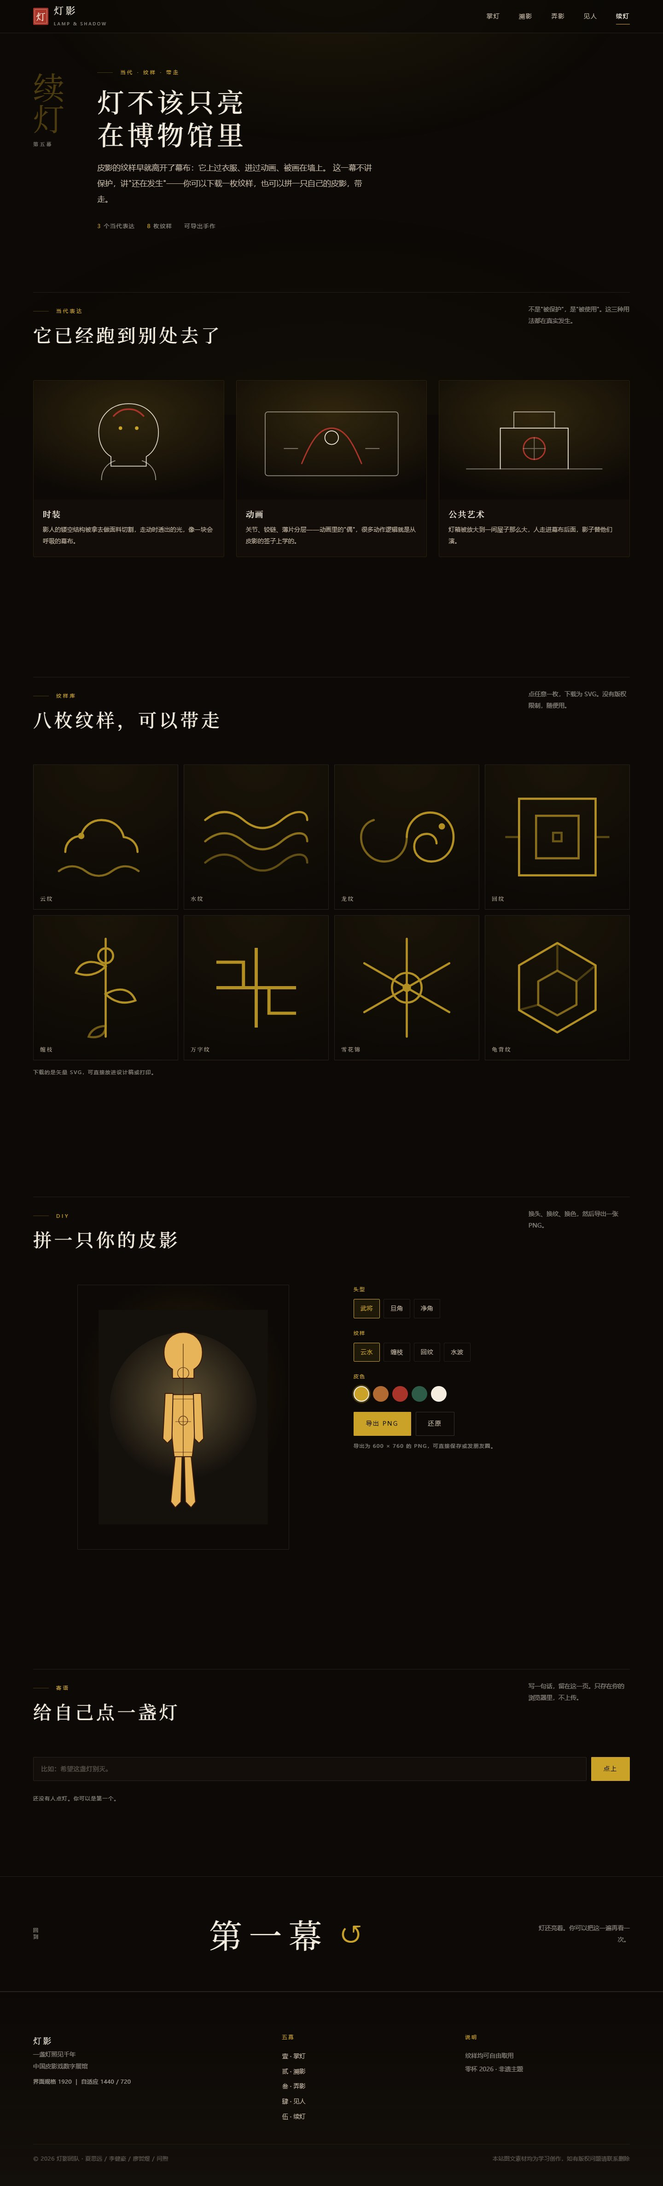
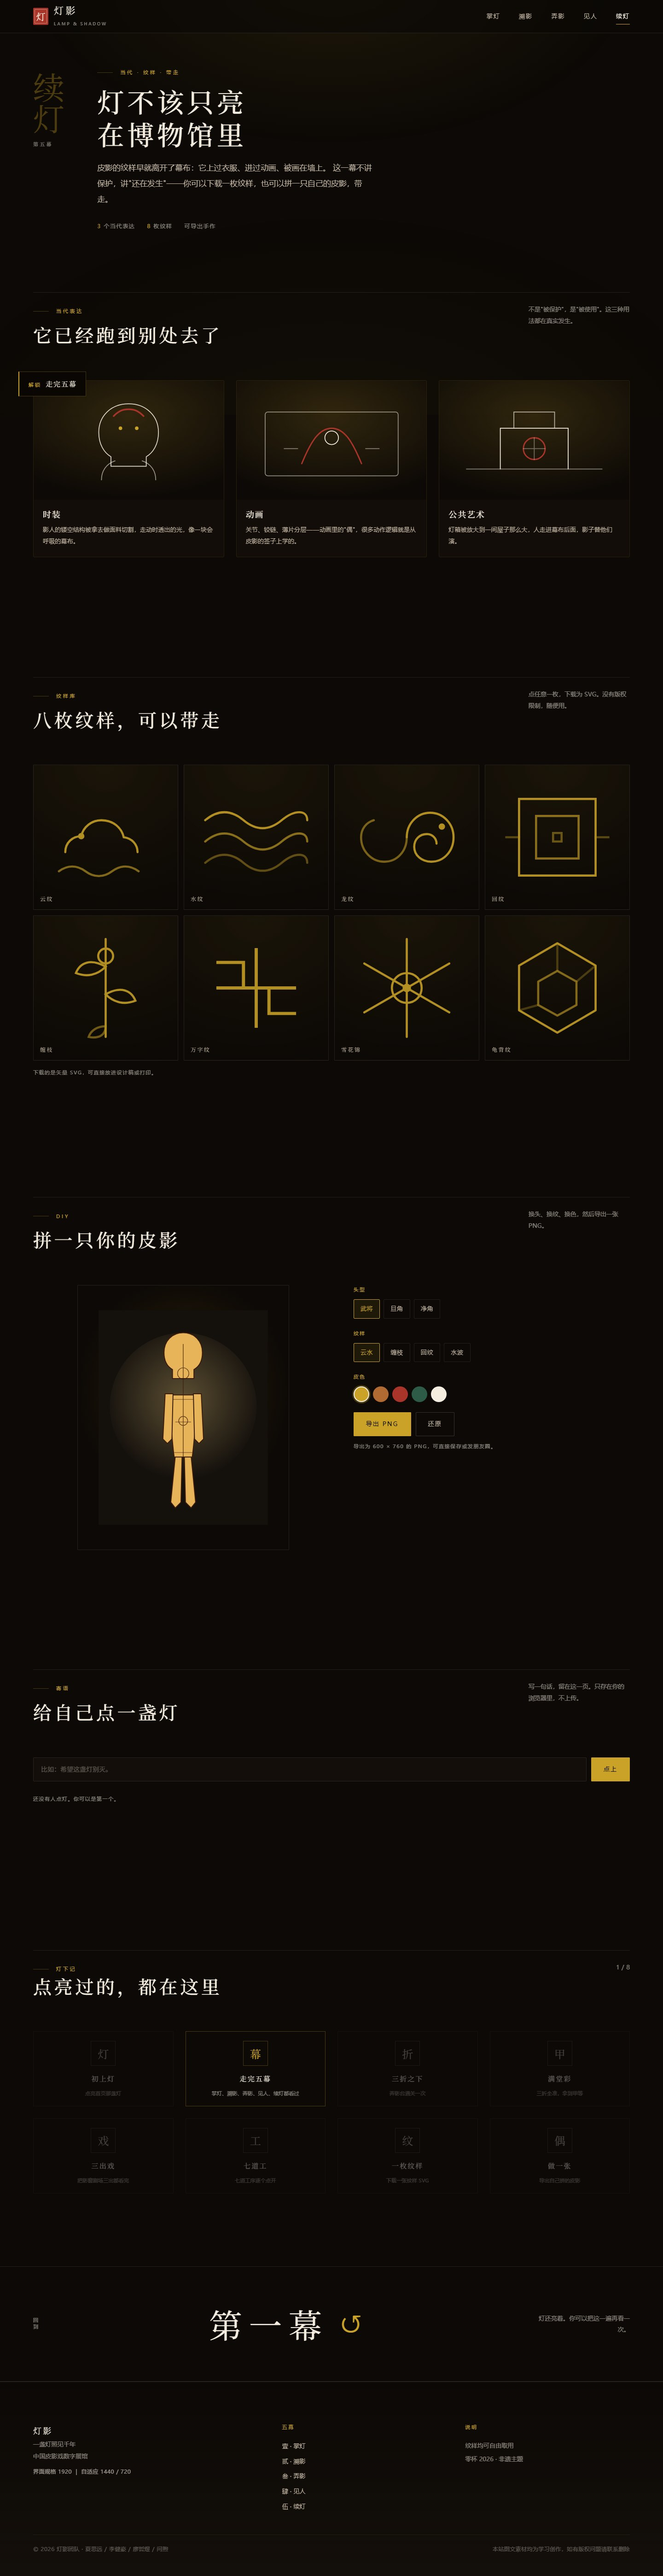
feat: 灯下记——八枚徽章与跨页累计
- achievements.js：八个成就定义、localStorage 累计、解锁 toast、徽章墙渲染
- 挂载：点灯 / 通关与甲等（stage）/ 工序逐个点开（main）/ 纹样与 DIY 下载（diy）/ 剧目看完（theater）/ 五页走遍（自身）
- 续灯页新增「灯下记」区块，未解锁灰化并带说明
- 07 清单 FN-06 标记完成
- 回归：30 组审计 0 报错，键盘通关 passed，实测点灯即弹「解锁 初上灯」

diff --git a/web/assets/js/achievements.js b/web/assets/js/achievements.js
@@ -1,0 +1,129 @@
+/* 灯影 · achievements.js
+   八枚徽章：本地存储、跨页累计、解锁即时提示。
+   不依赖任何后端；localStorage 不可用时静默失效。 */
+(function () {
+  "use strict";
+
+  var ACHS = [
+    { id: "light", name: "初上灯", glyph: "灯", desc: "点亮首页那盏灯" },
+    { id: "tour", name: "走完五幕", glyph: "幕", desc: "掌灯、溯影、弄影、见人、续灯都看过" },
+    { id: "pass", name: "三折之下", glyph: "折", desc: "弄影台通关一次" },
+    { id: "perfect", name: "满堂彩", glyph: "甲", desc: "三折全准，拿到甲等" },
+    { id: "plays", name: "三出戏", glyph: "戏", desc: "把影窗剧场三出都看完" },
+    { id: "crafts", name: "七道工", glyph: "工", desc: "七道工序逐个点开" },
+    { id: "pattern", name: "一枚纹样", glyph: "纹", desc: "下载一张纹样 SVG" },
+    { id: "maker", name: "做一张", glyph: "偶", desc: "导出自己拼的皮影" }
+  ];
+
+  var KEY = "lampAch";
+  var state = {};
+  try { state = JSON.parse(localStorage.getItem(KEY) || "{}") || {}; } catch (e) { state = {}; }
+
+  function persist() {
+    try { localStorage.setItem(KEY, JSON.stringify(state)); } catch (e) { /* 忽略 */ }
+  }
+
+  function meta(id) {
+    for (var i = 0; i < ACHS.length; i++) if (ACHS[i].id === id) return ACHS[i];
+    return null;
+  }
+
+  function has(id) { return !!state[id]; }
+
+  /* ---------- 提示 ---------- */
+  function toast(id) {
+    var m = meta(id);
+    if (!m || !document.body) return;
+    var el = document.createElement("div");
+    el.className = "toast";
+    var b = document.createElement("b");
+    b.textContent = "解锁";
+    var s = document.createElement("span");
+    s.textContent = m.name;
+    el.appendChild(b);
+    el.appendChild(s);
+    document.body.appendChild(el);
+    requestAnimationFrame(function () { el.classList.add("is-in"); });
+    window.setTimeout(function () {
+      el.classList.remove("is-in");
+      window.setTimeout(function () { el.remove(); }, 420);
+    }, 2600);
+  }
+
+  function unlock(id) {
+    if (!meta(id)) return;
+    if (!has(id)) {
+      state[id] = Date.now();
+      persist();
+      toast(id);
+    }
+    paint();
+  }
+
+  /* 分组累计：点开第 index 个，满 total 个就解锁 */
+  function tick(group, index, total, id) {
+    state["@" + group + index] = 1;
+    persist();
+    for (var i = 0; i < total; i++) {
+      if (!state["@" + group + i]) { paint(); return; }
+    }
+    unlock(id);
+  }
+
+  /* ---------- 徽章墙 ---------- */
+  function paint() {
+    var wall = document.getElementById("achWall");
+    var count = document.getElementById("achCount");
+    var got = 0;
+    ACHS.forEach(function (a) { if (has(a.id)) got += 1; });
+    if (count) count.textContent = got + " / " + ACHS.length;
+    if (!wall) return;
+
+    wall.innerHTML = "";
+    ACHS.forEach(function (a, i) {
+      var on = has(a.id);
+      var box = document.createElement("div");
+      box.className = "ach" + (on ? " is-on" : "");
+      box.style.setProperty("--i", String(i));
+      if (!on) box.title = a.desc;
+
+      var seal = document.createElement("span");
+      seal.className = "ach__seal";
+      seal.textContent = a.glyph;
+
+      var name = document.createElement("span");
+      name.className = "ach__name";
+      name.textContent = a.name;
+
+      var desc = document.createElement("span");
+      desc.className = "ach__desc";
+      desc.textContent = a.desc;
+
+      box.appendChild(seal);
+      box.appendChild(name);
+      box.appendChild(desc);
+      wall.appendChild(box);
+    });
+  }
+
+  /* 五幕走遍 */
+  function trackPage() {
+    var file = (location.pathname.split("/").pop() || "index.html").replace(/\.html$/i, "") || "index";
+    state["@" + file] = 1;
+    persist();
+    var need = ["index", "origin", "play", "people", "future"];
+    for (var i = 0; i < need.length; i++) {
+      if (!state["@" + need[i]]) { paint(); return; }
+    }
+    unlock("tour");
+  }
+
+  window.LampAch = { unlock: unlock, has: has, tick: tick, paint: paint, list: ACHS };
+
+  if (document.readyState === "loading") {
+    document.addEventListener("DOMContentLoaded", function () { trackPage(); paint(); });
+  } else {
+    trackPage();
+    paint();
+  }
+})();

diff --git a/web/assets/css/components.css b/web/assets/css/components.css
@@ -334,6 +334,55 @@
   .craft:nth-child(-n+2) { border-top: 0; }
 }
 
+/* ---------- 解锁提示 ---------- */
+.toast {
+  position: fixed;
+  left: clamp(16px, 3vw, 40px);
+  bottom: clamp(16px, 3vw, 40px);
+  z-index: 90;
+  display: flex;
+  align-items: baseline;
+  gap: 10px;
+  padding: 12px 20px;
+  background: rgba(10, 6, 3, .95);
+  border: 1px solid var(--line-strong);
+  border-left: 2px solid var(--lamp);
+  box-shadow: 0 24px 50px -30px #000;
+  opacity: 0;
+  transform: translateX(-14px);
+  transition: opacity var(--t-base) var(--ease), transform var(--t-base) var(--ease);
+  pointer-events: none;
+}
+.toast.is-in { opacity: 1; transform: none; }
+.toast b { font-size: var(--fs-micro); letter-spacing: .24em; color: var(--lamp); font-weight: 500; }
+.toast span { font-family: var(--serif); font-size: 15px; letter-spacing: .12em; color: var(--paper); }
+
+/* ---------- 徽章墙 ---------- */
+.ach-wall { display: grid; grid-template-columns: repeat(4, minmax(0, 1fr)); gap: clamp(14px, 2vw, 26px); }
+@media (max-width: 860px) { .ach-wall { grid-template-columns: repeat(2, minmax(0, 1fr)); } }
+.ach {
+  padding: 20px 14px 18px;
+  border: 1px solid var(--hair);
+  text-align: center;
+  opacity: .38;
+  filter: grayscale(1);
+  transition: opacity var(--t-base) var(--ease), filter var(--t-base) var(--ease), border-color var(--t-base) var(--ease);
+}
+.ach.is-on { opacity: 1; filter: none; border-color: rgba(201, 162, 39, .32); }
+.ach__seal {
+  display: grid;
+  place-items: center;
+  width: 54px;
+  height: 54px;
+  margin: 0 auto 14px;
+  border: 1px solid var(--line-strong);
+  font-family: var(--serif);
+  font-size: 24px;
+  color: var(--lamp);
+}
+.ach__name { display: block; font-family: var(--serif); font-size: 15px; letter-spacing: .14em; }
+.ach__desc { display: block; margin-top: 7px; font-size: 11px; line-height: 1.75; color: var(--paper-faint); }
+
 /* ---------- 弄影台 ---------- */
 .stage-wrap { position: relative; }
 .stage {

diff --git a/web/future.html b/web/future.html
@@ -333,6 +333,19 @@
     </div>
   </section>
 
+  <section class="section" aria-labelledby="achTitle">
+    <div class="wrap">
+      <div class="block-head">
+        <div>
+          <p class="eyebrow">灯下记</p>
+          <h2 id="achTitle">点亮过的，都在这里</h2>
+        </div>
+        <p class="block-head__note" id="achCount">0 / 8</p>
+      </div>
+      <div class="ach-wall" id="achWall"></div>
+    </div>
+  </section>
+
   <a class="next-scene" href="index.html">
     <div class="wrap next-scene__inner">
       <span class="next-scene__label">回到</span>
@@ -370,6 +383,7 @@
   </footer>
 </main>
 
+<script src="assets/js/achievements.js"></script>
 <script src="assets/js/main.js"></script>
 <script src="assets/js/diy.js"></script>
 </body>

diff --git a/web/assets/js/stage.js b/web/assets/js/stage.js
@@ -368,6 +368,10 @@
     else if (miss === 0) rank = "乙";
     var label = { "甲": "满堂彩", "乙": "叫好", "丙": "还行" }[rank];
     state.result = { rank: rank, perfect: perfect, good: good, miss: miss };
+    if (window.LampAch) {
+      window.LampAch.unlock("pass");
+      if (rank === "甲") window.LampAch.unlock("perfect");
+    }
 
     lockNote.innerHTML = "<b>通关 · " + rank + " 等</b>：" + label + "。" +
       "准 " + perfect + " · 良 " + good + " · 失 " + miss + "（" + state.score + " 分）。影窗剧场已解锁。";

diff --git a/web/assets/js/diy.js b/web/assets/js/diy.js
@@ -9,6 +9,10 @@
 
   /* ---------- 通用下载 ---------- */
   function download(blob, filename) {
+    if (window.LampAch) {
+      if (/\.svg$/i.test(filename)) window.LampAch.unlock("pattern");
+      else if (/\.png$/i.test(filename)) window.LampAch.unlock("maker");
+    }
     var url = URL.createObjectURL(blob);
     var a = document.createElement("a");
     a.href = url;

diff --git a/web/assets/js/theater.js b/web/assets/js/theater.js
@@ -96,6 +96,10 @@
       state.line += 1;
       render();
       if (auto) holdAdvance();
+      /* 看到最后一句，这出就算看过了 */
+      if (state.line === p.lines.length - 1 && window.LampAch) {
+        window.LampAch.tick("play", state.play, 3, "plays");
+      }
     } else {
       state.playing = false;
       if (playBtn) playBtn.textContent = "重播";

diff --git a/web/assets/js/main.js b/web/assets/js/main.js
@@ -194,6 +194,7 @@
     var openModal = function (i) {
       var c = CRAFTS[i];
       if (!c) return;
+      if (window.LampAch) window.LampAch.tick("craft", i, 7, "crafts");
       lastFocus = document.activeElement;
       mIdx.textContent = "工序 " + "一二三四五六七".charAt(i) + " / 七";
       mTitle.textContent = c.name;

diff --git a/web/play.html b/web/play.html
@@ -418,6 +418,7 @@
 
 <script src="assets/js/api.js"></script>
 <script src="assets/js/share.js"></script>
+<script src="assets/js/achievements.js"></script>
 <script src="assets/js/main.js"></script>
 <script src="assets/js/stage.js"></script>
 <script src="assets/js/theater.js"></script>

diff --git a/web/assets/js/lamp.js b/web/assets/js/lamp.js
@@ -22,6 +22,7 @@
     body.dataset.lit = "1";
     try { localStorage.setItem("lampLit", "1"); } catch (e) { /* 忽略隐私模式 */ }
     if (hero) hero.setAttribute("data-lit", "1");
+    if (window.LampAch) window.LampAch.unlock("light");
   }
 
   if (!isLit() && hero) {

diff --git a/web/index.html b/web/index.html
@@ -168,6 +168,7 @@
   </div>
 </main>
 
+<script src="assets/js/achievements.js"></script>
 <script src="assets/js/main.js"></script>
 <script src="assets/js/lamp.js"></script>
 </body>

diff --git a/web/people.html b/web/people.html
@@ -253,6 +253,7 @@
   </footer>
 </main>
 
+<script src="assets/js/achievements.js"></script>
 <script src="assets/js/main.js"></script>
 </body>
 </html>

diff --git a/web/origin.html b/web/origin.html
@@ -264,6 +264,7 @@
   </defs>
 </svg>
 
+<script src="assets/js/achievements.js"></script>
 <script src="assets/js/main.js"></script>
 </body>
 </html>
